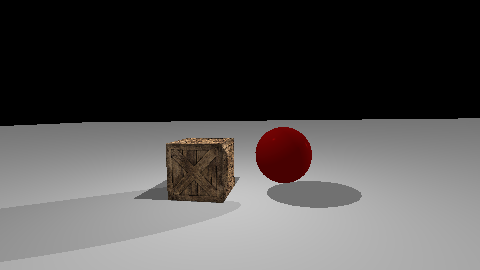
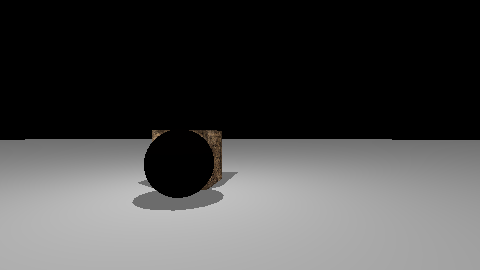
Исправил ошибку с прозрачностью

Changed region(s): [[0.0, 0.4148, 1.0, 0.9778]]

diff --git a/RayTracing/Tracer.cs b/RayTracing/Tracer.cs
@@ -51,7 +51,7 @@ public class Tracer
                 //     Console.WriteLine();
                 Vector3 color = Trace(ray, 0, 1);
                 // if(color.X > 0) Console.WriteLine($"{x},{y} {color}");
-                image[x, y] = new Rgb24((byte)Math.Clamp(color.X, 0, 244),
+                image[x, y] = new Rgb24((byte)Math.Clamp(color.X, 0, 255),
                                         (byte)Math.Clamp(color.Y, 0, 255),
                                         (byte)Math.Clamp(color.Z, 0, 255));
             }
@@ -131,6 +131,6 @@ public class Tracer
                 iData.Model!.Material.GetColor(
                     iData.Triangle!.GetTextureUV(iData.Point!))
                  + reflColor * iData.Model.Material.Reflectivity
-                 + iData.Model.Material.Refractivity * refrColor;
+                 + iData.Model.Material.Transparency * refrColor;
     }
 }

diff --git a/RayTracingUI/MainWindow.axaml.cs b/RayTracingUI/MainWindow.axaml.cs
@@ -34,12 +34,13 @@ public partial class MainWindow : Window
                               Height = 270 };
     }
     int RenderingSplitting = 20;
+    int RenderDepth = 5;
     private void RenderClick(object sender, RoutedEventArgs e)
     {
         var tracer = new Tracer { Scene = Scene,
                                   Width = GetValue(DefaultWidth, renderWidth),
                                   Height = GetValue(DefaultHeight, renderHeight),
-                                  Depth = 4,
+                                  Depth = RenderDepth,
                                   SplittingHeight = RenderingSplitting,
                                   SplittingWidth = RenderingSplitting };
         tracer.Render().SaveAsPng("output/render.png");
